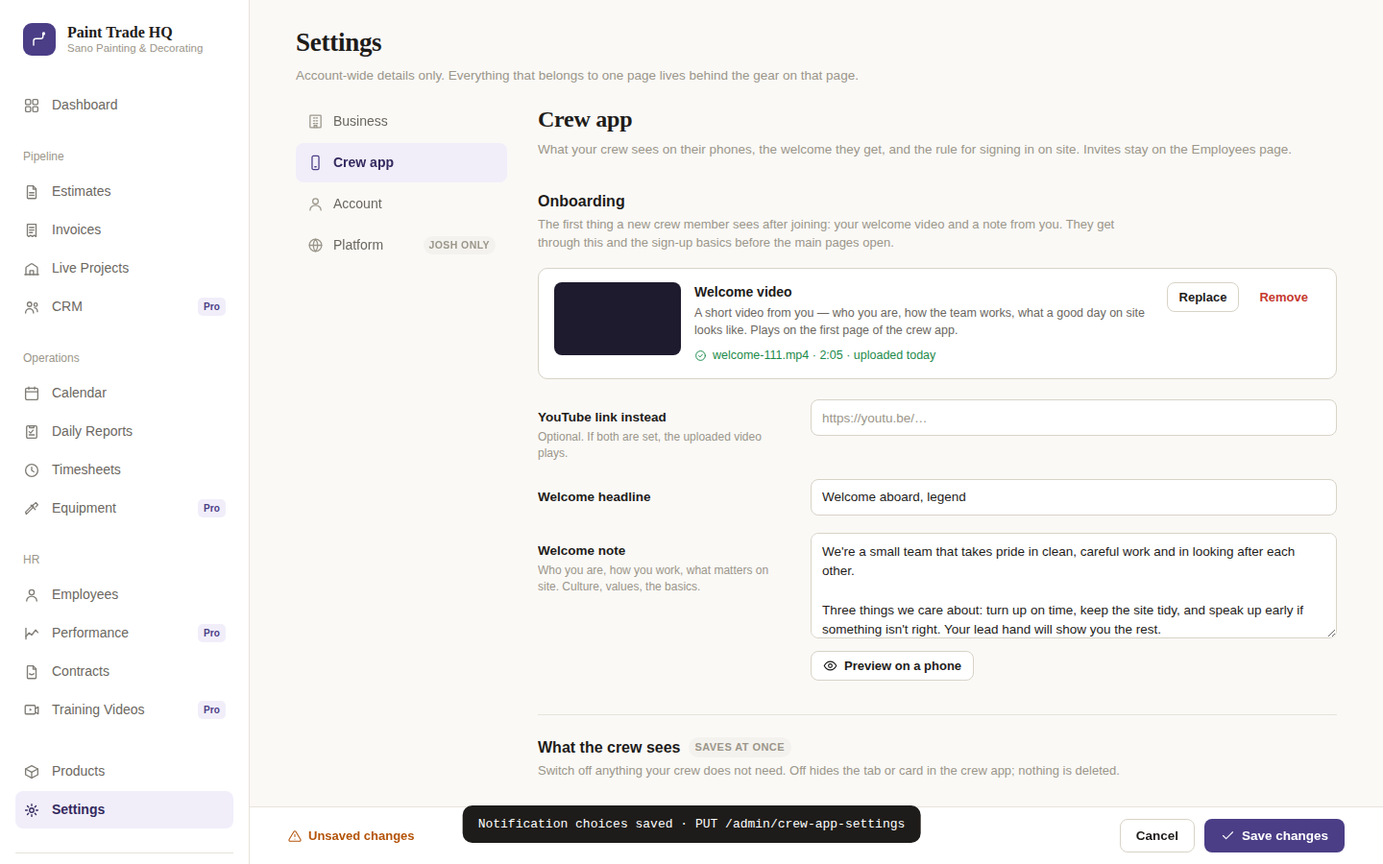
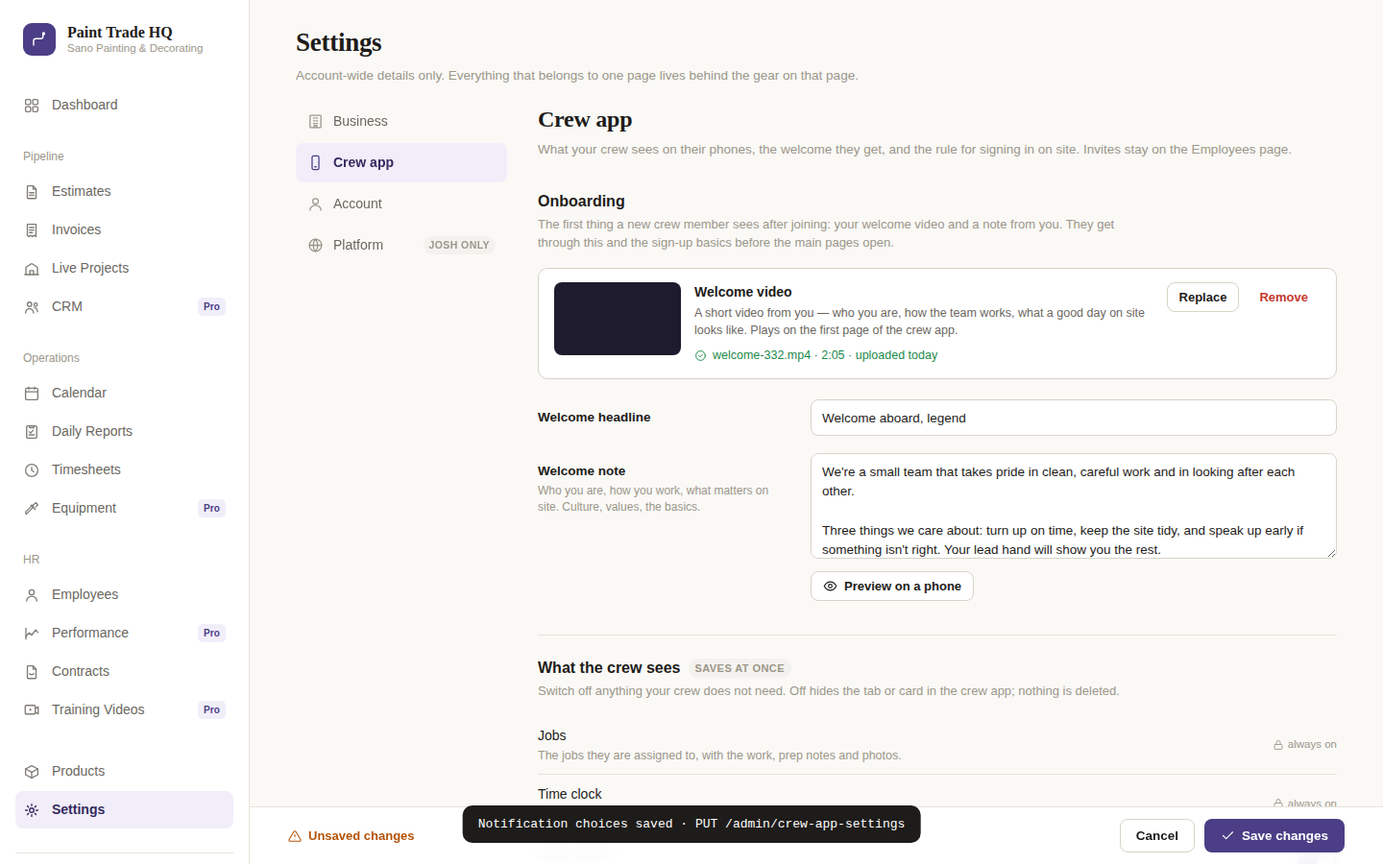
Round 79: upload only; crew side written into the spec for one coordinated round
Claude-Session: https://claude.ai/code/session_017aPXW2J3d9sk8NT22hJVrV

diff --git a/settings-crew-app.html b/settings-crew-app.html
@@ -725,8 +725,7 @@
       <h3>Onboarding</h3>
       <p class="sd">The first thing a new crew member sees after joining: your welcome video and a note from you. They get through this and the sign-up basics before the main pages open.</p>
       <div class="vcard" data-testid="crew-video-card"><div class="vthumb" id="vthumb">${svg('play')}</div><div class="t"><b>Welcome video</b><span>A short video from you — who you are, how the team works, what a good day on site looks like. Plays on the first page of the crew app.</span><div class="st" id="crewVideoSt" data-testid="crew-video-status"></div></div><div class="a" id="crewVideoActs"></div></div>
-      <div class="row" style="margin-top:12px"><div class="k">YouTube link instead<span>Optional. If both are set, the uploaded video plays.</span></div><div class="v"><input type="url" id="crew-yt" data-k="crew_youtube_url" value="" placeholder="https://youtu.be/…" data-testid="crew-yt" aria-label="crew_youtube_url"></div></div>
-      <div class="row"><div class="k">Welcome headline</div><div class="v"><input type="text" id="crew-headline" data-k="crew_headline" value="Welcome to Sano Painting" placeholder="Welcome to …" data-testid="crew-headline" aria-label="crew_headline"></div></div>
+      <div class="row" style="margin-top:12px"><div class="k">Welcome headline</div><div class="v"><input type="text" id="crew-headline" data-k="crew_headline" value="Welcome to Sano Painting" placeholder="Welcome to …" data-testid="crew-headline" aria-label="crew_headline"></div></div>
       <div class="row"><div class="k">Welcome note<span>Who you are, how you work, what matters on site. Culture, values, the basics.</span></div><div class="v"><textarea id="crew-note" data-k="crew_note" data-testid="crew-note" aria-label="crew_note">We're a small team that takes pride in clean, careful work and in looking after each other.
 
 Three things we care about: turn up on time, keep the site tidy, and speak up early if something isn't right. Your lead hand will show you the rest.</textarea><div class="note"><button class="btn btn-ghost" id="crewPreview" data-testid="crew-preview" style="padding:7px 12px;font-size:13px">${svg('eye')} Preview on a phone</button></div></div></div>
@@ -880,7 +879,7 @@ const params = new URLSearchParams(location.search);
   const CR = { video: { name: 'welcome-2026.mp4', len: '1:48', at: '3 Oct' } };
   const FEAT_NAMES = { daily_reports:'Daily reports', photos:'Photos', inbox:'Inbox', learn:'Learn', documents:'Documents & contracts', equipment:'Equipment requests', events:'Team events', feedback:'Feedback' };
   function renderVideo(){ const st = $('#crewVideoSt'), th = $('#vthumb'); if (CR.video) { st.className = 'st ok'; st.innerHTML = `${svg('checkc')} ${esc(CR.video.name)} · ${CR.video.len} · uploaded ${CR.video.at}`; th.className = 'vthumb'; th.innerHTML = svg('play'); $('#crewVideoActs').innerHTML = `<button class="btn btn-ghost" id="vidReplace" data-testid="crew-video-replace">Replace</button><button class="btn danger" id="vidRemove" data-testid="crew-video-remove">Remove</button>`; } else { st.className = 'st'; st.innerHTML = `${svg('image')} No video yet · MP4 or MOV up to 200 MB`; th.className = 'vthumb empty'; th.innerHTML = svg('image'); $('#crewVideoActs').innerHTML = `<button class="btn btn-primary" id="vidUpload" data-testid="crew-video-upload">${svg('plus')} Upload video</button>`; } }
-  function renderPhone(){ $('#phHead').textContent = $('#crew-headline').value || 'Welcome'; $('#phNote').textContent = $('#crew-note').value; const v = $('#phVid'); if (CR.video || $('#crew-yt').value.trim()) { v.className = 'vid'; v.innerHTML = svg('play'); } else { v.className = 'vid none'; v.textContent = 'No video — the note shows on its own'; } }
+  function renderPhone(){ $('#phHead').textContent = $('#crew-headline').value || 'Welcome'; $('#phNote').textContent = $('#crew-note').value; const v = $('#phVid'); if (CR.video) { v.className = 'vid'; v.innerHTML = svg('play'); } else { v.className = 'vid none'; v.textContent = 'No video — the note shows on its own'; } }
   function openPhone(){ renderPhone(); $('#crScrim').hidden = false; } function closePhone(){ $('#crScrim').hidden = true; }
   document.addEventListener('click', e => {
     const id = e.target.id; let x;
@@ -893,7 +892,7 @@ const params = new URLSearchParams(location.search);
     if ((x = e.target.closest('.radio'))){ $$('.radio').forEach(r => { r.classList.toggle('on', r === x); r.querySelector('input').checked = r === x; }); say(x.dataset.rule === 'flag' ? 'Outside the distance: flagged on the timesheet · PUT /admin/crew-app-settings' : 'Outside the distance: refused when the GPS reading is accurate · PUT /admin/crew-app-settings'); return; }
   });
   $('#crew-radius').addEventListener('change', () => { const el = $('#crew-radius'); const n = $('#radiusNote'); if (+el.value < 30) { el.value = 30; n.className = 'note bad'; n.textContent = 'Set to 30 m — the minimum. A phone cannot place itself more precisely than that.'; } else { n.className = 'note'; n.textContent = 'Minimum 30 m: a phone\'s own GPS is only accurate to about 5–20 m outdoors, worse under roofs. A job can set its own distance on its page.'; } });
-  ['crew-headline', 'crew-note', 'crew-yt'].forEach(i => $('#' + i).addEventListener('input', () => { if (!$('#crScrim').hidden) renderPhone(); }));
+  ['crew-headline', 'crew-note'].forEach(i => $('#' + i).addEventListener('input', () => { if (!$('#crScrim').hidden) renderPhone(); }));
   document.addEventListener('keydown', e => { if (e.key === 'Escape' && !$('#crScrim').hidden) closePhone(); });
   renderVideo();
   if (pageName === 'crew') $('#pageSub').textContent = 'The crew app follows these settings on every phone. Changes reach the crew the next time they open the app. Invites and approvals live on the Employees page.';

diff --git a/tools/make_crew_settings.py b/tools/make_crew_settings.py
@@ -98,8 +98,7 @@ PAGE = """  <div class="content" id="pgCrew" data-testid="set-page-crew" hidden>
       <h3>Onboarding</h3>
       <p class="sd">The first thing a new crew member sees after joining: your welcome video and a note from you. They get through this and the sign-up basics before the main pages open.</p>
       <div class="vcard" data-testid="crew-video-card"><div class="vthumb" id="vthumb">${svg('play')}</div><div class="t"><b>Welcome video</b><span>A short video from you — who you are, how the team works, what a good day on site looks like. Plays on the first page of the crew app.</span><div class="st" id="crewVideoSt" data-testid="crew-video-status"></div></div><div class="a" id="crewVideoActs"></div></div>
-      <div class="row" style="margin-top:12px"><div class="k">YouTube link instead<span>Optional. If both are set, the uploaded video plays.</span></div><div class="v"><input type="url" id="crew-yt" data-k="crew_youtube_url" value="" placeholder="https://youtu.be/…" data-testid="crew-yt" aria-label="crew_youtube_url"></div></div>
-      <div class="row"><div class="k">Welcome headline</div><div class="v"><input type="text" id="crew-headline" data-k="crew_headline" value="Welcome to Sano Painting" placeholder="Welcome to …" data-testid="crew-headline" aria-label="crew_headline"></div></div>
+      <div class="row" style="margin-top:12px"><div class="k">Welcome headline</div><div class="v"><input type="text" id="crew-headline" data-k="crew_headline" value="Welcome to Sano Painting" placeholder="Welcome to …" data-testid="crew-headline" aria-label="crew_headline"></div></div>
       <div class="row"><div class="k">Welcome note<span>Who you are, how you work, what matters on site. Culture, values, the basics.</span></div><div class="v"><textarea id="crew-note" data-k="crew_note" data-testid="crew-note" aria-label="crew_note">We're a small team that takes pride in clean, careful work and in looking after each other.
 
 Three things we care about: turn up on time, keep the site tidy, and speak up early if something isn't right. Your lead hand will show you the rest.</textarea><div class="note"><button class="btn btn-ghost" id="crewPreview" data-testid="crew-preview" style="padding:7px 12px;font-size:13px">${svg('eye')} Preview on a phone</button></div></div></div>
@@ -158,7 +157,7 @@ JS = """  // ---- Crew app page ----
   const CR = { video: { name: 'welcome-2026.mp4', len: '1:48', at: '3 Oct' } };
   const FEAT_NAMES = { daily_reports:'Daily reports', photos:'Photos', inbox:'Inbox', learn:'Learn', documents:'Documents & contracts', equipment:'Equipment requests', events:'Team events', feedback:'Feedback' };
   function renderVideo(){ const st = $('#crewVideoSt'), th = $('#vthumb'); if (CR.video) { st.className = 'st ok'; st.innerHTML = `${svg('checkc')} ${esc(CR.video.name)} · ${CR.video.len} · uploaded ${CR.video.at}`; th.className = 'vthumb'; th.innerHTML = svg('play'); $('#crewVideoActs').innerHTML = `<button class="btn btn-ghost" id="vidReplace" data-testid="crew-video-replace">Replace</button><button class="btn danger" id="vidRemove" data-testid="crew-video-remove">Remove</button>`; } else { st.className = 'st'; st.innerHTML = `${svg('image')} No video yet · MP4 or MOV up to 200 MB`; th.className = 'vthumb empty'; th.innerHTML = svg('image'); $('#crewVideoActs').innerHTML = `<button class="btn btn-primary" id="vidUpload" data-testid="crew-video-upload">${svg('plus')} Upload video</button>`; } }
-  function renderPhone(){ $('#phHead').textContent = $('#crew-headline').value || 'Welcome'; $('#phNote').textContent = $('#crew-note').value; const v = $('#phVid'); if (CR.video || $('#crew-yt').value.trim()) { v.className = 'vid'; v.innerHTML = svg('play'); } else { v.className = 'vid none'; v.textContent = 'No video — the note shows on its own'; } }
+  function renderPhone(){ $('#phHead').textContent = $('#crew-headline').value || 'Welcome'; $('#phNote').textContent = $('#crew-note').value; const v = $('#phVid'); if (CR.video) { v.className = 'vid'; v.innerHTML = svg('play'); } else { v.className = 'vid none'; v.textContent = 'No video — the note shows on its own'; } }
   function openPhone(){ renderPhone(); $('#crScrim').hidden = false; } function closePhone(){ $('#crScrim').hidden = true; }
   document.addEventListener('click', e => {
     const id = e.target.id; let x;
@@ -171,7 +170,7 @@ JS = """  // ---- Crew app page ----
     if ((x = e.target.closest('.radio'))){ $$('.radio').forEach(r => { r.classList.toggle('on', r === x); r.querySelector('input').checked = r === x; }); say(x.dataset.rule === 'flag' ? 'Outside the distance: flagged on the timesheet · PUT /admin/crew-app-settings' : 'Outside the distance: refused when the GPS reading is accurate · PUT /admin/crew-app-settings'); return; }
   });
   $('#crew-radius').addEventListener('change', () => { const el = $('#crew-radius'); const n = $('#radiusNote'); if (+el.value < 30) { el.value = 30; n.className = 'note bad'; n.textContent = 'Set to 30 m — the minimum. A phone cannot place itself more precisely than that.'; } else { n.className = 'note'; n.textContent = 'Minimum 30 m: a phone\\'s own GPS is only accurate to about 5–20 m outdoors, worse under roofs. A job can set its own distance on its page.'; } });
-  ['crew-headline', 'crew-note', 'crew-yt'].forEach(i => $('#' + i).addEventListener('input', () => { if (!$('#crScrim').hidden) renderPhone(); }));
+  ['crew-headline', 'crew-note'].forEach(i => $('#' + i).addEventListener('input', () => { if (!$('#crScrim').hidden) renderPhone(); }));
   document.addEventListener('keydown', e => { if (e.key === 'Escape' && !$('#crScrim').hidden) closePhone(); });
   renderVideo();
   if (pageName === 'crew') $('#pageSub').textContent = 'The crew app follows these settings on every phone. Changes reach the crew the next time they open the app. Invites and approvals live on the Employees page.';

diff --git a/crew-app-settings-notes.md b/crew-app-settings-notes.md
@@ -1,8 +1,8 @@
-# Round 79 — Settings › Crew app (proposal for Josh's review, not sent)
+# Round 79 — Settings › Crew app, with the crew side in the same round (spec, ready for "send 79")
 
 Prototype: **`settings-crew-app.html?page=crew`** (Settings rail › Crew app; Onboarding → **Preview on a phone**; the feature switches; the distance and the rule; the push choices). Open at **1440** first, then **1024**. Playwright: `tools/test_crew_settings.js`, **48/48** at both widths. Screenshots: `crew-settings-top-1440.png`, `crew-settings-1440.png`, `crew-settings-phone-1440.png`, `crew-settings-1024.png`.
 
-Josh's decisions (18 October): distance as recommended (**50 m default, 30 m minimum**), rule **flag**; the general QR waits for approval and crew only see jobs they are assigned to (**invites and approvals already exist on the Employees page and stay there — no Invites section here, no duplication**); welcome video by **upload**, YouTube link kept as an option; **minimal onboarding is required** before the main pages open; "rethink and recheck" → this second pass (§9).
+Josh's decisions (18 October): distance **50 m default, 30 m minimum**, rule **flag**; invites and approvals stay on the Employees page (no Invites section, no duplication); welcome video by **upload only**; **minimal onboarding is required** before the main pages open; **one coordinated round**: this admin spec and the crew chat's crew spec (built against §3) go to Emergent together as Round 79; the crew chat owns every file under `app/employee/*`.
 
 ## 1. What exists today (Round 64 code; the crew chat confirms against the current tree)
 
@@ -11,62 +11,67 @@ Josh's decisions (18 October): distance as recommended (**50 m default, 30 m min
 - The site fence is soft (Iteration 61): sign-in never refuses; the record is stamped `outside_radius` and `distance_from_site_m` against the business's `gps_radius_m` (Operations settings, default 100, edited in the **Timesheets gear**, `TimesheetSetupPanel.tsx:17`) with a per-project `geofence_radius_m` override.
 - No push notifications exist (the crew plan's C7). In-app notifications exist.
 
-## 2. The page (admin, Settings rail › **Crew app**)
+## 2. The admin page (Settings rail › **Crew app**)
 
 Four sections on the Business-page pattern (sections, rows, "saves at once" where it does). Page line: "What your crew sees on their phones, the welcome they get, and the rule for signing in on site. Invites stay on the Employees page."
 
-1. **Onboarding.** Welcome video card: upload to the business's storage (MP4 or MOV up to 200 MB), status line "name · length · uploaded date", Replace / Remove; "YouTube link instead" (optional; the upload wins when both are set); Welcome headline; Welcome note (multi-line); **Preview on a phone** opens a right drawer with a phone frame: the video block (or "No video — the note shows on its own"), the headline, the note, Continue, three dots, and the line "Then the sign-up steps the crew app already has: details, a photo, licence and white card, the terms to sign. The main pages open after that." The headline, note and link save with the page's Save bar ("Crew app saved"); the video acts at once.
+1. **Onboarding.** Welcome video card: upload to the business's storage (MP4 or MOV up to 200 MB), status line "name · length · uploaded date", Replace / Remove; Welcome headline; Welcome note (multi-line, up to 2 000 characters); **Preview on a phone** opens a right drawer with a phone frame: the video block (or "No video — the note shows on its own"), the headline, the note, Continue, three dots, and the line "Then the sign-up steps the crew app already has: details, a photo, licence and white card, the terms to sign. The main pages open after that." The headline and note save with the page's Save bar ("Crew app saved"); the video acts at once.
 2. **What the crew sees** (saves at once). Ten rows with switches; Jobs and Time clock are always on (lock). What each switch hides in the crew app (C1's tabs Today · Jobs · Inbox · Learn · Me): Daily reports → the report card on a job and the Today prompt; Photos → the photo actions on a job; Inbox → the Inbox tab; Learn → the Learn tab; Documents & contracts → the Documents and My contracts cards on Me; Equipment requests → the Equipment card on Me; Team events → the events card on Today and Me; Feedback → the Feedback card on Me. Off hides; nothing is deleted. Toast "{feature} hidden from / shown to the crew".
 3. **Sign-in on site.** "Distance from the site" number field, default **50**, minimum **30** (a lower value is pushed up to 30 with a red note), the explanation that a phone's GPS is only accurate to about 5–20 m outdoors, and the note that a job can set its own distance on its page (existing override). "Outside the distance" radio, saves at once: **Flag it** (default: sign-in always works, entries outside the distance are marked on the timesheet with the distance) or **Refuse it** (sign-in is refused only when the phone's GPS reading is accurate; a poor reading goes through flagged, never a lock-out). **This field replaces the GPS radius in the Timesheets gear**: that field is removed there and the gear shows "Sign-in distance: 50 m · set in Settings › Crew app" with a link. One place.
 4. **Push notifications** (saves at once). Five switches, on by default: a job is assigned, a start time or date changes, a message from the office, feedback on their daily report, a document to sign. Line: "Push arrives with the crew app's next round; these choices apply from then."
 
-## 3. Data and routes (backend; the crew app reads the same record)
+## 3. Data and routes (backend, this spec; the crew side reads them)
 
 | Piece | Detail |
 |---|---|
-| **Record** `crew_app_settings` (one per business, keyed by `owner_admin_id`) | `{ onboarding: { video_file_id, video_provider, youtube_url, headline, note }, features: { daily_reports, photos, inbox, learn, documents, equipment, events, feedback } (booleans; jobs and timeclock implied true), signin: { radius_m (int ≥ 30, default 50), rule: "flag" \| "block" }, notifications: { job_assigned, start_change, office_message, report_feedback, contract } }`. Defaults as above when the record is missing. |
+| **Record** `crew_app_settings` (one per business, keyed by `owner_admin_id`) | `{ onboarding: { video_file_id, video_provider, headline, note }, features: { daily_reports, photos, inbox, learn, documents, equipment, events, feedback } (booleans; jobs and timeclock implied true), signin: { radius_m (int ≥ 30, default 50), rule: "flag" \| "block" }, notifications: { job_assigned, start_change, office_message, report_feedback, contract } }`. Defaults as above when the record is missing. |
 | **Distance, one place** | `signin.radius_m` is the business distance. `routes/timeclock.py` reads it (falling back to the old `gps_radius_m` once, then the per-project override as today); the Operations setting `gps_radius_m` stops being written; the Timesheets gear field is removed (§2.3). The admin "off-site sign-ins" bar on Timesheets and the `outside_radius` flag keep working unchanged. |
-| **Routes** (admin, tenant-scoped) | `GET /admin/crew-app-settings` (defaults filled in); `PUT /admin/crew-app-settings` (any subset; radius ≥ 30, rule in the two values; the note ≤ 2 000 characters); `POST /admin/crew-app-settings/video` (multipart; `file_storage.upload(..., folder="Crew app", public=False)`, replaces the previous video, returns the status fields; the old file is deleted) and `DELETE …/video`. |
-| **Crew side** (crew chat builds the screens; the routes are this round's) | `GET /employee/app-settings` returns `features`, `signin` and `onboarding` (headline, note, `youtube_url`, and `video: true/false`) for the caller's business. `GET /employee/onboarding/video` streams the welcome video to a signed-in crew member with HTTP Range (`Accept-Ranges: bytes`, 206), reading the file back through `file_storage.download` (Drive, OneDrive or the private blob — the Round 78 helpers); never a public URL. The crew app shows the welcome page (video or YouTube, headline, note, Continue) **before** the existing wizard and only once per person (`welcome_seen_at` on the employee, set by `POST /employee/onboarding/welcome-seen`); it hides tabs and cards per `features`; the sign-in screen sends the phone's accuracy reading with the position (one new field). On native, a YouTube link opens in the YouTube app or a web view, as training videos do. |
-| **Time clock** | **Sign-in** with `rule: "block"`: refused (`409 outside_site`, with the distance and the accuracy) when `distance_from_site_m > radius_m` **and** the phone's reported accuracy is ≤ 25 m; otherwise recorded with `outside_radius` as today. With `rule: "flag"`: as today. **Sign-out is never refused**: a crew member who has left the site must still be able to close the clock, so sign-out is recorded and flagged when outside, under both rules. |
+| **Admin routes** (tenant-scoped) | `GET /admin/crew-app-settings` (defaults filled in); `PUT /admin/crew-app-settings` (any subset; radius ≥ 30, rule in the two values, note ≤ 2 000 characters); `POST /admin/crew-app-settings/video` (multipart; `file_storage.upload(..., folder="Crew app", public=False)`, replaces the previous video and deletes the old file, returns the status fields) and `DELETE …/video`. |
+| **Crew routes** (this spec builds them; the crew chat's screens call them) | `GET /employee/app-settings` → `{ features, signin, onboarding: { headline, note, video: true/false }, welcome_seen: true/false }` for the caller's business. `GET /employee/onboarding/video` streams the welcome video to a signed-in crew member with HTTP Range (`Accept-Ranges: bytes`, 206), reading the file back through `file_storage.download` (Drive, OneDrive or the private blob — the Round 78 helpers); never a public URL; 404 for another tenant's crew. `POST /employee/onboarding/welcome-seen` sets `welcome_seen_at` on the employee. The time-clock sign-in and sign-out routes accept one new optional field, `accuracy_m` (the phone's reported accuracy). |
+| **Time clock** | **Sign-in** with `rule: "block"`: refused (`409 outside_site`, with the distance and the accuracy) when `distance_from_site_m > radius_m` **and** `accuracy_m` ≤ 25; otherwise recorded with `outside_radius` as today. With `rule: "flag"`: as today. **Sign-out is never refused**: a crew member who has left the site must still be able to close the clock, so sign-out is recorded and flagged when outside, under both rules. |
 | **Push** | No sending in this round. The five booleans are stored for C7. |
 
-## 4. What it does not do
+## 4. The crew side (the crew chat's spec, same round; everything under `app/employee/*`)
 
-- No crew screens: the welcome page, the tab hiding and the sign-in behaviour are the crew chat's, built against §3. This round ships the admin page, the record, the routes, the video stream and the time-clock rule.
+Written here so both chats build to one shape; the crew chat words its own spec and prototype from it.
+
+1. **Welcome page**, shown once per person, after the invite code and before the existing wizard, when `welcome_seen` is false: the video (streamed from `GET /employee/onboarding/video`, with the phone's native player) or nothing when `video` is false, the headline, the note, **Continue** → `POST /employee/onboarding/welcome-seen` → the wizard. The main tabs stay closed until `onboarding_complete`, as today.
+2. **Tabs and cards follow `features`** (§2.2's list), read at sign-in and on resume; a hidden feature's screens are unreachable, not just unlinked.
+3. **Sign-in screen**: sends `accuracy_m` with the position; shows the distance rule from `signin` in its own words ("You're 120 m from the site — this will be flagged" / with rule block and a good reading: "You're 120 m from the site — move closer to sign in"); sign-out always goes through, flagged when outside.
+4. Nothing on push yet (C7).
+
+## 5. What it does not do
+
 - No invite or approval work: the Employees page keeps it. If Check 4 finds the general-code sign-up does not wait for approval, that becomes a Fix Round G item.
-- No push sending (C7). `app/employee/*` untouched.
+- No YouTube link: upload only. No push sending (C7).
+- Admin files and crew files are built by their own chats; the shared backend routes are in this spec.
 
-## 5. Verify (testing agent, 1440 then 1024, TS_ tenant)
+## 6. Verify (testing agent, 1440 then 1024 for admin; 390 then 360 for crew; TS_ tenant)
 
 1. Settings › Crew app opens from the rail; four sections as the prototype; the page line; no Invites section.
-2. Upload a small MP4 → the status line; the file sits under "Crew app" in the TS_ tenant's storage (PTHQ cloud on preview), not inside the record; Replace deletes the old file; Remove; YouTube link, headline and note save with the Save bar; Preview on a phone shows what was typed; Escape closes.
-3. Feature switches save at once and `GET /admin/crew-app-settings` reflects them; Jobs and Time clock cannot be switched; a TS_ crew member's `GET /employee/app-settings` returns the same.
+2. Upload a small MP4 → the status line; the file sits under "Crew app" in the TS_ tenant's storage (PTHQ cloud on preview), not inside the record; Replace deletes the old file; Remove; headline and note save with the Save bar; Preview on a phone shows what was typed; Escape closes.
+3. Feature switches save at once and `GET /admin/crew-app-settings` reflects them; Jobs and Time clock cannot be switched; a TS_ crew member's `GET /employee/app-settings` returns the same, and the crew app hides the right tabs and cards.
 4. Distance 10 → 30 with the note; 50 saves; the Timesheets gear no longer has a GPS field and shows the link line; rule Flag / Refuse saves at once. Time clock on TS_: rule flag → a far-away sign-in is recorded and flagged; rule block + accuracy 10 m → refused with the distance; rule block + accuracy 60 m → recorded and flagged; sign-out from far away is always recorded and flagged.
-5. `GET /employee/onboarding/video` streams the TS_ video to its crew (Range → 206) and refuses another tenant's crew (404); `welcome-seen` sets the stamp once.
-6. Isolation: tenant B's settings never show for A. 1024: no horizontal scroll; no console errors; `tsc` clean; `app/employee/*` untouched.
+5. A new TS_ crew member sees the welcome page once (video plays on the phone), then the wizard; a second sign-in skips it. `GET /employee/onboarding/video` streams with Range (206) and refuses another tenant's crew (404).
+6. Isolation: tenant B's settings never show for A. Admin 1024: no horizontal scroll; crew 360: nothing overflows; no console errors; `tsc` clean.
 
-## 6. Tests
+## 7. Tests
 
-`backend/tests/test_r79_crew_settings.py` on TS_: defaults when no record; PUT validation (radius 10 → 400, rule "maybe" → 400); video upload stores a file reference and no base64, replace deletes the old file; `/employee/app-settings` returns the tenant's record for its crew only; the video stream with Range and the cross-tenant 404; time clock block vs flag with accuracy 10 m and 60 m, sign-out never refused; the Operations `gps_radius_m` no longer written. Suite green before and after.
+`backend/tests/test_r79_crew_settings.py` on TS_: defaults when no record; PUT validation (radius 10 → 400, rule "maybe" → 400, note 2 001 → 400); video upload stores a file reference and no base64, replace deletes the old file; `/employee/app-settings` returns the tenant's record for its crew only; the video stream with Range and the cross-tenant 404; `welcome-seen` once; time clock block vs flag with accuracy 10 m and 60 m, sign-out never refused; the Operations `gps_radius_m` no longer written. Suite green before and after.
 
-## 7. What's new (Draft only)
+## 8. What's new (Draft only)
 
 **Title:** Your crew app, your way
-**Body:** Settings has a new Crew app page: a welcome video and note for new crew, switches for what the crew sees, the on-site sign-in distance and rule, and the push choices for when notifications arrive.
-
-## 8. Questions for Josh (one line each)
-
-1. The YouTube link stays as an option next to the upload (prototype), or upload only?
-2. Order: build this admin side first, then the crew chat's welcome page and tab hiding against §3 (my suggestion), or both in one coordinated round?
+**Body:** Settings has a new Crew app page: a welcome video and note for new crew, switches for what the crew sees, the on-site sign-in distance and rule, and the push choices for when notifications arrive. New crew see your welcome the first time they open the app.
 
 ## 9. Second pass — what the recheck changed
 
-1. **Invites section removed** (duplication of the Employees page). Four sections now.
-2. **The GPS radius already had a home** in the Timesheets gear; keeping both would be two places for one number. It moves here and the gear points at it.
-3. **Sign-out must never be refused**, or a crew member who has left the site cannot close the clock. Written into the rule.
-4. **Serving the video**: an uploaded video in a private store cannot be a public link; the crew app streams it through a crew-authenticated route with Range support (iPhones need it), using the Round 78 download helpers. Written in.
-5. **The welcome page shows once**, stamped on the employee, so it does not greet people on every open.
-6. **The phone preview's "then" line** now names the wizard's real steps (details, photo, licence and white card, terms).
-7. **Each feature switch now says what it hides** in the crew app's own terms, so the crew chat has no guessing.
+1. Invites section removed (duplication of the Employees page). Four sections now.
+2. The GPS radius already had a home in the Timesheets gear; keeping both would be two places for one number. It moves here and the gear points at it.
+3. Sign-out must never be refused, or a crew member who has left the site cannot close the clock. Written into the rule.
+4. Serving the video: an uploaded video in a private store cannot be a public link; the crew app streams it through a crew-authenticated route with Range support, using the Round 78 download helpers.
+5. The welcome page shows once, stamped on the employee.
+6. The phone preview's "then" line names the wizard's real steps.
+7. Each feature switch says what it hides in the crew app's own terms.
 8. The note field gets a length limit; the video replace deletes the previous file.
+9. YouTube option dropped (Josh: upload only). The crew side is written in as §4 so the two chats build to one shape in one round.

diff --git a/round11-results.md b/round11-results.md
@@ -355,3 +355,4 @@
 
 ## Round 79 second pass (18 Oct): Invites section removed, recheck
 - Josh: "we don't need the invite section as that function already exists, no duplication; other stuff looks good; rethink and recheck your work". Removed the Invites section (generator, tests, spec); `tools/test_crew_settings.js` **48/48** at 1440 and 1024. Recheck findings written into the spec §9: the GPS radius already lives in the **Timesheets gear** (`gps_radius_m`, Operations settings, `TimesheetSetupPanel.tsx:17`) → it moves to Crew app settings and the gear points at it (one place); **sign-out is never refused** (a crew member off site must be able to close the clock); the uploaded video is private → streamed to signed-in crew through `GET /employee/onboarding/video` with Range using the Round 78 download helpers; the welcome page shows once (`welcome_seen_at`); the phone preview's "then" line names the wizard's real steps (details, photo, licence and white card, terms); each feature switch states what it hides in the crew app's terms; note length limit; replace deletes the old video. Questions left: YouTube option; order (admin first). `admin-remaining.md` updated.
+- Josh: "do upload only, and both" → YouTube option removed from the prototype and the spec (`tools/test_crew_settings.js` 48/48 again); the spec is now the full Round 79: admin page (§2), backend record and routes incl. the crew routes `GET /employee/app-settings`, `GET /employee/onboarding/video` (Range, private), `POST /employee/onboarding/welcome-seen`, `accuracy_m` on the clock routes (§3), and **the crew side written in as §4** (welcome page once, tabs follow `features`, sign-in screen wording, sign-out never refused) for the crew chat to build its half against in the same round. Ready for "send 79" after Round 74 is done and the crew chat's half is ready; Josh points the crew chat at the notes §3–§4.

diff --git a/admin-remaining.md b/admin-remaining.md
@@ -13,7 +13,7 @@ Everything the admin chat has specced so far is built, except the items below. O
 
 | Item | What it is | Needs from Josh |
 |---|---|---|
-| **Round 79 — Settings › Crew app** (`crew-app-settings-notes.md`, prototype `settings-crew-app.html`) | The admin page for the crew app: welcome video and note with a phone preview, which crew features are on, the sign-in distance (50 m, min 30, flag or refuse; moved here from the Timesheets gear), push choices; the record, routes and video stream the crew chat reads. Invites stay on the Employees page. | Answer the two questions, then "send 79" (after Round 74 is done). |
+| **Round 79 — Settings › Crew app** (`crew-app-settings-notes.md`, prototype `settings-crew-app.html`) | The admin page for the crew app: welcome video and note with a phone preview, which crew features are on, the sign-in distance (50 m, min 30, flag or refuse; moved here from the Timesheets gear), push choices; the record, routes and video stream the crew chat reads. Invites stay on the Employees page. | Upload only; one coordinated round with the crew chat (its crew spec is built against §3–§4 of the notes). "send 79" after Round 74 is done and the crew chat has its half ready. |
 | **Round 74 — Presentation pages** | Your words: "one or two pages with large photo areas, if the user wants", instead of today's small section; presentation on by default for new quotes; the public quote page shows the presentation pages (today only the PDF does). | "prototype 74" → review → "send". |
 
 ## Needs something to arrive first
